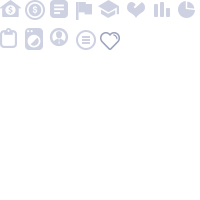
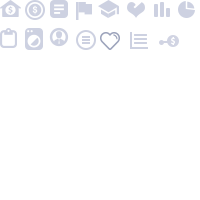
修改

Changed region(s): [[0.63, 0.15, 0.75, 0.27], [0.78, 0.18, 0.9, 0.24]]

diff --git a/galaxy-sop-server/src/main/webapp/css/axure.css b/galaxy-sop-server/src/main/webapp/css/axure.css
@@ -1427,17 +1427,23 @@ form#update_form_basic tr td:nth-child(1){padding-left: 10% !important;}
     background-position: 0 -177px;
     padding: 0 0 0 22px;
 }
-.new_ul_all .ico_dot{
-	 background-position: 5px -200px;
-    padding: 0 0 0 22px;
-	margin-top:7px;
-}
 .new_fctbox .ico {
     background: url(../img/functionico.png) no-repeat;
     height: 18px;
     line-height: 18px;
     float: left;
     margin-top: 3px;
+}
+.new_ul_all .ico {
+    background: url(../img/functionico.png) no-repeat;
+    height: 18px;
+    line-height: 18px;
+    float: left;
+}
+.new_ul_all .ico_dot{
+	 background-position: 5px -200px;
+    padding: 0 0 0 22px;
+	margin-top:9px;
 }
 /* .ico {
     background: url(../img/functionico.png) no-repeat;
@@ -1460,8 +1466,8 @@ form#update_form_basic tr td:nth-child(1){padding-left: 10% !important;}
 .new_ico_product{background-image:url(../img/tubiao1.png); background-repeat:no-repeat; background-position: -127px 0px; width:20px; height:20px; display:block; float:left; padding-bottom:5px;}
 .new_ico_jq{ background-image:url(../img/tubiao1.png); background-repeat:no-repeat; background-position: -152px 0px; width:20px; height:20px; display:block; float:left; padding-bottom:5px;}
 .new_ico_run{background-image:url(../img/tubiao1.png); background-repeat:no-repeat; background-position: -178px 0px; width:20px; height:20px; display:block; float:left; padding-bottom:5px;}
-.new_ico_nex{background-image:url(../img/tubiao1.png); background-repeat:no-repeat; background-position: -178px 0px; width:20px; height:20px; display:block; float:left; padding-bottom:5px;}
-.new_ico_industry{ background-image:url(../img/tubiao1.png); background-repeat:no-repeat; background-position: -178px 0px; width:20px; height:20px; display:block; float:left; padding-bottom:5px;}
+.new_ico_nex{background-image:url(../img/tubiao1.png); background-repeat:no-repeat; background-position: -159px -27px; width:20px; height:20px; display:block; float:left; padding-bottom:5px;}
+.new_ico_industry{ background-image:url(../img/tubiao1.png); background-repeat:no-repeat; background-position: -129px -27px; width:20px; height:20px; display:block; float:left; padding-bottom:5px;}
 .tabtable_con_on {
     background-color: #fff;
     overflow: hidden;
